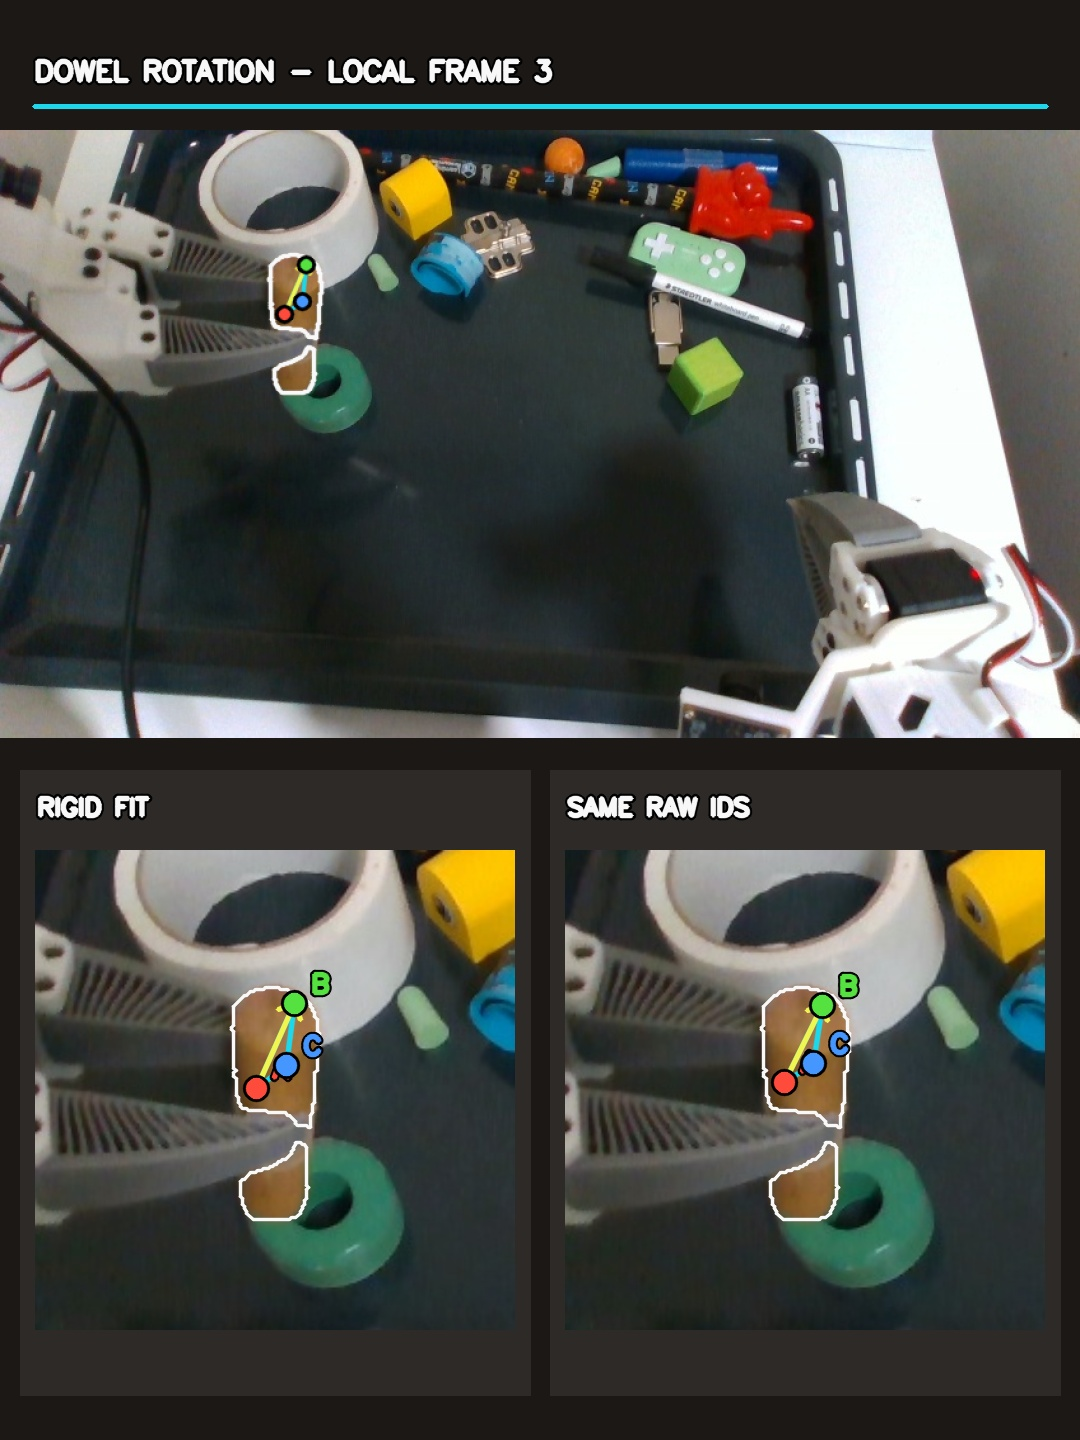
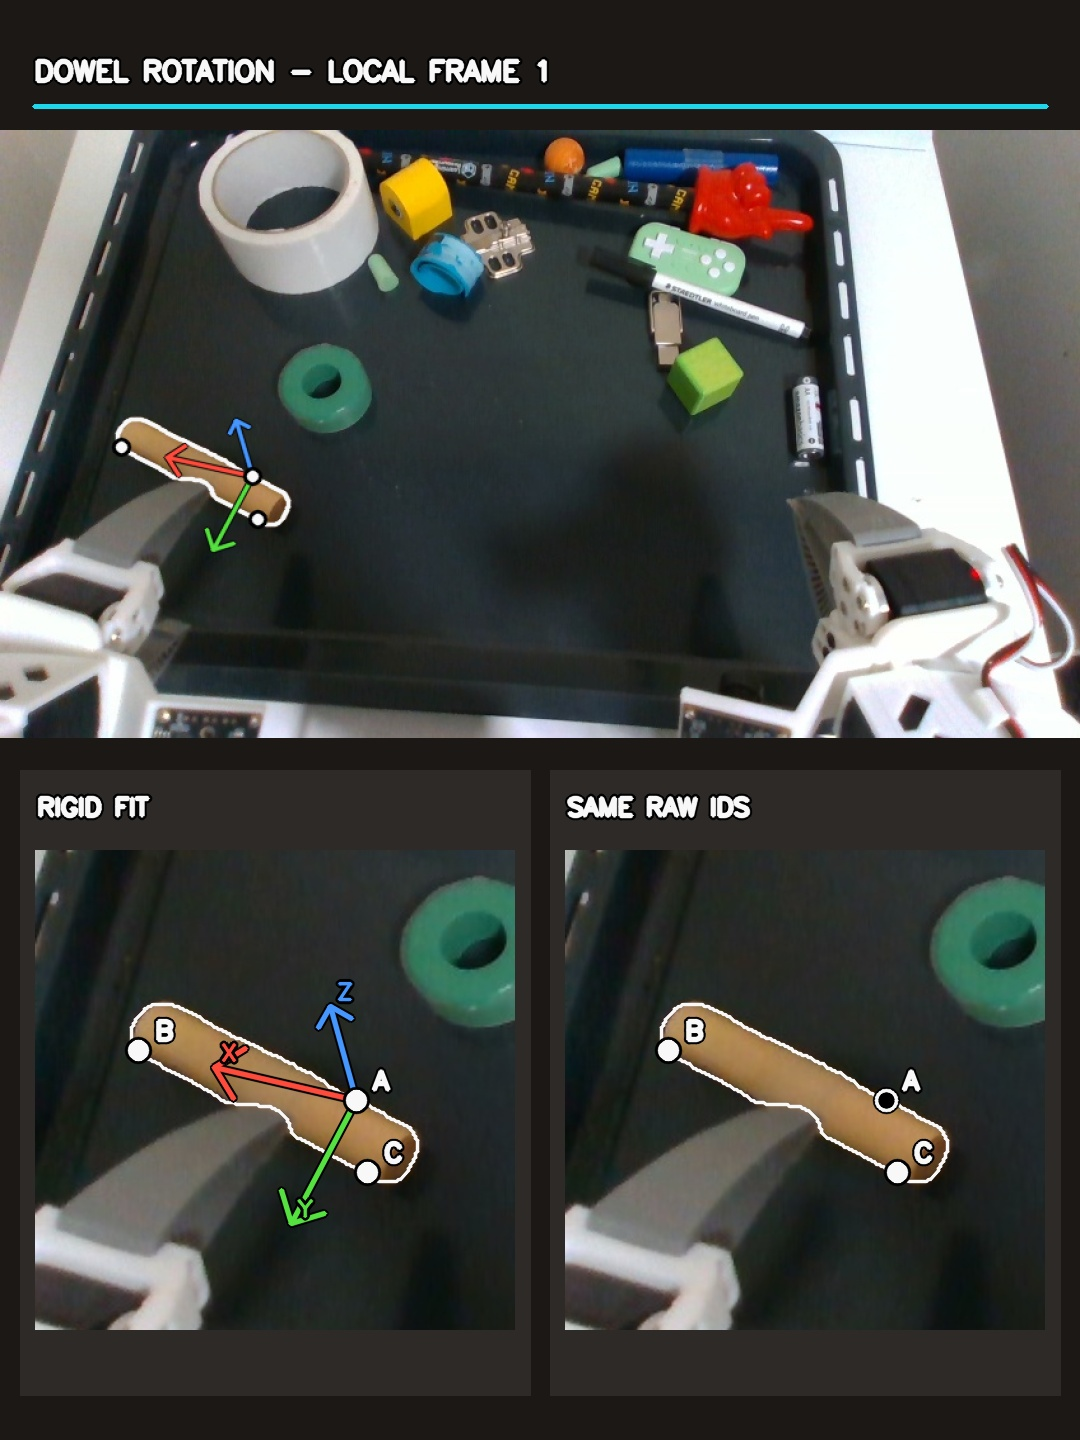
Render moving-object pose with an A-anchored 3D gizmo
The three-point triangle made it hard to judge whether the inferred rigid frame rotated coherently with the visible object. Draw orthogonal RGB axes from landmark A while retaining separate A/B/C markers and the raw-ID comparison. Keep missing and unlinked intervals explicit so the visual does not imply continuous material correspondence across reseeds. Update the evidence cover and link the hosted phone-friendly render. Verified the H.264 export, checked representative motion and reseed frames visually, ran pre-commit on the changed files, and confirmed the published file's SHA-256 matches the local export.

diff --git a/benchmarks/flash_moving_pose_video.py b/benchmarks/flash_moving_pose_video.py
@@ -16,12 +16,12 @@ import numpy as np
 from lerobot.policies.flash.registration import transform_points
 
 ROOT = Path("/tmp/flash-moving-check")
-OUT = ROOT / "FLASH_moving_objects_pose_check.mp4"
+OUT = ROOT / "FLASH_moving_objects_pose_gizmo.mp4"
 W, H, FPS = 1080, 1440, 30
 BG = (22, 24, 27)
 WHITE = (248, 248, 248)
 CYAN = (236, 216, 27)
-COLORS = [(60, 75, 255), (63, 225, 85), (255, 150, 70)]
+AXIS_COLORS = ((60, 75, 255), (63, 225, 85), (255, 150, 70))  # X/Y/Z in BGR
 DEMO = Path("/home/feit/.cache/huggingface/lerobot/demos/insertion/recording")
 GROWTH = Path(
     "/home/feit/.cache/huggingface/lerobot/demos/insertion/flash/v1/tracker-runs/trackeverything-growth-ui-20261021-a"
@@ -72,35 +72,66 @@ def mask_contour(im, mask, offset=(0, 0), scale=1.0):
         cv2.drawContours(im, [q], -1, WHITE, 2, cv2.LINE_AA)
 
 
-def marks(im, uv, offset=(0, 0), scale=1.0, support=None, labels=False, fit=False):
+def marks(im, uv, offset=(0, 0), scale=1.0, support=None, labels=False):
     if uv is None:
         return
     q = (np.asarray(uv) - np.array(offset)) * scale
     if not np.isfinite(q).all():
         return
     q = np.rint(q).astype(int)
-    if fit or support is None or all(support):
-        cv2.polylines(im, [q], True, CYAN, 4 if labels else 2, cv2.LINE_AA)
-        cv2.arrowedLine(
-            im, tuple(q[0]), tuple(q[1]), (80, 245, 240), 4 if labels else 2, cv2.LINE_AA, tipLength=0.18
-        )
     for n, (x, y) in enumerate(q):
         if not (-35 < x < im.shape[1] + 35 and -35 < y < im.shape[0] + 35):
             continue
         r = 13 if labels else 7
         cv2.circle(im, (int(x), int(y)), r, (0, 0, 0), -1, cv2.LINE_AA)
-        if support is None or support[n]:
-            cv2.circle(im, (int(x), int(y)), r - 3, COLORS[n], -1, cv2.LINE_AA)
-        else:
-            cv2.circle(im, (int(x), int(y)), r - 3, COLORS[n], 2, cv2.LINE_AA)
+        cv2.circle(
+            im, (int(x), int(y)), r - 3, WHITE, -1 if support is None or support[n] else 2, cv2.LINE_AA
+        )
         if labels:
-            txt(im, "ABC"[n], int(x) + 17, int(y) - 11, 0.85, COLORS[n], 3)
+            txt(im, "ABC"[n], int(x) + 17, int(y) - 11, 0.85, WHITE, 3)
 
 
-def draw(rgb, mask, fit_uv, raw_uv, raw_support, title, side=235):
+def gizmo_points(landmarks):
+    """A is the origin; AB and the component of AC normal to AB define X/Y."""
+    a, b, c = np.asarray(landmarks, dtype=float)
+    x = b - a
+    x_norm = np.linalg.norm(x)
+    if not np.isfinite(x_norm) or x_norm <= 0:
+        return None
+    x /= x_norm
+    y = c - a - np.dot(c - a, x) * x
+    y_norm = np.linalg.norm(y)
+    if not np.isfinite(y_norm) or y_norm <= 0:
+        return None
+    y /= y_norm
+    z = np.cross(x, y)
+    # Keep all three axes readable while their scale follows the local landmark spread.
+    axis_length = 0.65 * max(np.linalg.norm(b - a), np.linalg.norm(c - a))
+    return np.stack((a, a + axis_length * x, a + axis_length * y, a + axis_length * z))
+
+
+def draw_gizmo(im, landmarks, k, offset=(0, 0), scale=1.0, labels=False):
+    axes = gizmo_points(landmarks)
+    if axes is None or np.any(axes[:, 2] <= 0):
+        return
+    q = np.rint((project(axes, k) - np.asarray(offset)) * scale).astype(int)
+    origin = tuple(q[0])
+    for n, end in enumerate(q[1:]):
+        tip = tuple(end)
+        cv2.arrowedLine(im, origin, tip, (0, 0, 0), 7 if labels else 4, cv2.LINE_AA, tipLength=0.25)
+        cv2.arrowedLine(im, origin, tip, AXIS_COLORS[n], 4 if labels else 2, cv2.LINE_AA, tipLength=0.25)
+        if labels:
+            txt(im, "XYZ"[n], tip[0] + 7, tip[1] - 7, 0.75, AXIS_COLORS[n], 2)
+
+
+def draw(rgb, mask, fit_xyz, raw_xyz, raw_support, title, k, side=235):
+    fit_uv = None if fit_xyz is None else project(fit_xyz, k)
+    raw_uv = None if raw_xyz is None else project(raw_xyz, k)
     full = rgb.copy()
     mask_contour(full, mask)
-    marks(full, fit_uv, fit=True)
+    if fit_xyz is not None:
+        draw_gizmo(full, fit_xyz, k)
+    marks(full, fit_uv)
     canvas = np.full((H, W, 3), BG, "uint8")
     txt(canvas, title, 34, 80, 0.91)
     cv2.line(canvas, (34, 106), (1046, 106), CYAN, 3)
@@ -119,8 +150,8 @@ def draw(rgb, mask, fit_uv, raw_uv, raw_support, title, side=235):
     fit_label = (
         "FIT (UNVERIFIED)" if "UNVERIFIED" in title else ("RIGID FIT" if fit_uv is not None else "NO POSE")
     )
-    for ri, (label, uv, support, fit) in enumerate(
-        ((fit_label, fit_uv, None, True), ("SAME RAW IDS", raw_uv, raw_support, False))
+    for ri, (label, uv, xyz, support) in enumerate(
+        ((fit_label, fit_uv, fit_xyz, None), ("SAME RAW IDS", raw_uv, raw_xyz, raw_support))
     ):
         x0 = 20 + ri * 530
         cv2.rectangle(canvas, (x0, 770), (x0 + 510, 1395), (39, 42, 45), -1)
@@ -129,7 +160,9 @@ def draw(rgb, mask, fit_uv, raw_uv, raw_support, title, side=235):
             rgb[top : top + side, left : left + side], (480, 480), interpolation=cv2.INTER_LINEAR
         )
         mask_contour(crop, mask, (left, top), 480 / side)
-        marks(crop, uv, (left, top), 480 / side, support, True, fit)
+        if ri == 0 and xyz is not None:
+            draw_gizmo(crop, xyz, k, (left, top), 480 / side, True)
+        marks(crop, uv, (left, top), 480 / side, support, True)
         canvas[850:1330, x0 + 15 : x0 + 495] = crop
     return canvas
 
@@ -154,8 +187,8 @@ def dowel_frames():
         if segment:
             item = segments[segment - 1]
             ids = np.array(item["anchor_track_ids"])
-            fit_uv = project(local["anchors_by_frame"][i], k)
-            raw_uv = project(scene["query_coords_m"][i, ids], k)
+            fit_xyz = local["anchors_by_frame"][i]
+            raw_xyz = scene["query_coords_m"][i, ids]
             support = local["observed_by_frame"][i].tolist()
             title = f"DOWEL ROTATION - LOCAL FRAME {segment}"
             if segment > 1 and frame - item["frames"][0] < 12:
@@ -168,11 +201,11 @@ def dowel_frames():
         else:
             previous = next((x for x in reversed(segments) if x["frames"][0] < frame), None)
             ids = np.array(previous["anchor_track_ids"]) if previous is not None else np.array([], int)
-            raw_uv = project(scene["query_coords_m"][i, ids], k) if len(ids) == 3 else None
+            raw_xyz = scene["query_coords_m"][i, ids] if len(ids) == 3 else None
             support = local["support"][i, ids].tolist() if len(ids) == 3 else None
-            fit_uv = None
+            fit_xyz = None
             title = "DOWEL ROTATION - TRACK LOST"
-        yield frame, draw(rgb, mask, fit_uv, raw_uv, support, title, 225)
+        yield frame, draw(rgb, mask, fit_xyz, raw_xyz, support, title, k, 225)
 
 
 def yellow_frames():
@@ -188,10 +221,10 @@ def yellow_frames():
         rgb = cv2.imread(str(YELLOW / "recording/rgb" / f"{frame:06d}.jpg"))
         mask = read_mask(YELLOW / "masks/1" / f"{frame:06d}.png")
         pose = scene["poses"][role, frame] @ np.linalg.inv(origin)
-        fit_uv = None if scene["lost"][role, frame] else project(transform_points(pose, base), k)
-        raw_uv = project(scene["query_coords_m"][frame, ids], k)
+        fit_xyz = None if scene["lost"][role, frame] else transform_points(pose, base)
+        raw_xyz = scene["query_coords_m"][frame, ids]
         support = scene["visible_surface_support"][frame, ids].tolist()
-        yield frame, draw(rgb, mask, fit_uv, raw_uv, support, "YELLOW LEGO - MOVING ON TRAY", 225)
+        yield frame, draw(rgb, mask, fit_xyz, raw_xyz, support, "YELLOW LEGO - MOVING ON TRAY", k, 225)
 
 
 def gamepad_frames():
@@ -212,17 +245,17 @@ def gamepad_frames():
             i = frame - first
             rgb = cv2.imread(str(GAMEPAD / "recording/rgb" / f"{frame:06d}.jpg"))
             mask = read_mask(GAMEPAD / "masks/0" / f"{frame:06d}.png")
-            fit_uv = (
+            fit_xyz = (
                 None
                 if scene["lost"][i]
-                else project(transform_points(scene["poses"][i] @ np.linalg.inv(origin), base), k)
+                else transform_points(scene["poses"][i] @ np.linalg.inv(origin), base)
             )
-            raw_uv = project(scene["query_coords_m"][i, ids], k)
+            raw_xyz = scene["query_coords_m"][i, ids]
             support = scene["visible_surface_support"][i, ids].tolist()
             title = f"HELD GAMEPAD - LOCAL FRAME {stage}"
             if stage > 1 and frame - lo < 12:
                 title = f"GAMEPAD - UNLINKED RESEED {stage}"
-            yield frame, draw(rgb, mask, fit_uv, raw_uv, support, title, 240)
+            yield frame, draw(rgb, mask, fit_xyz, raw_xyz, support, title, k, 240)
 
 
 def main():

diff --git a/docs/proofs/flash-moving-pose/EVIDENCE.md b/docs/proofs/flash-moving-pose/EVIDENCE.md
@@ -1,6 +1,6 @@
 # Moving-object pose check — 2026-10-23
 
-[Watch the phone-friendly video](https://github.com/TheWisp/lerobot/releases/download/flash-visible-tracking-20261023/FLASH_moving_objects_pose_check.mp4) · 27 s, 1080 × 1440, H.264.
+[Watch the phone-friendly gizmo video](https://github.com/TheWisp/lerobot/releases/download/flash-visible-tracking-20261023/FLASH_moving_objects_pose_gizmo.mp4) · 27 s, 1080 × 1440, H.264. The [earlier triangle view](https://github.com/TheWisp/lerobot/releases/download/flash-visible-tracking-20261023/FLASH_moving_objects_pose_check.mp4) remains available.
 
 ![Dowel rotation after the final local reseed](cover.jpg)
 
@@ -12,12 +12,14 @@ stationary objects and excluded the yellow block because its depth check was
 weaker. That selection made the tracker look more reliable than the evidence
 supports.
 
-In the video, the **left triangle** is an inferred rigid frame carried by a fit
-to other depth-backed TrackEverything tracks; the **right triangle** follows
-the same three raw point IDs. The white outline is the current SAM3 mask.
-Hollow markers are raw IDs that no longer pass the mask/depth support check.
-A→B is a fixed direction only _within one local frame_. After a reseed, A/B/C
-are newly chosen points and their physical identity is **not** transferred.
+In the video, the left close-up shows an inferred rigid fit carried by other
+depth-backed TrackEverything tracks. Its red X, green Y and blue Z axes start
+at landmark A: X follows A→B, Y follows the component of A→C perpendicular to
+X, and Z is their cross product. The right close-up shows the same three raw
+point IDs without the fit. The white outline is the current SAM3 mask. Hollow
+raw markers no longer pass the mask/depth support check. The axes describe a
+local frame only _within one tracking segment_. After a reseed, A/B/C are
+newly chosen points and their physical identity is **not** transferred.
 The headings show lost tracking, unverified fits and unlinked reseeds rather
 than silently filling those intervals. Each source frame is shown twice at
 30 fps; this is half-speed playback, not measured live tracking speed.
